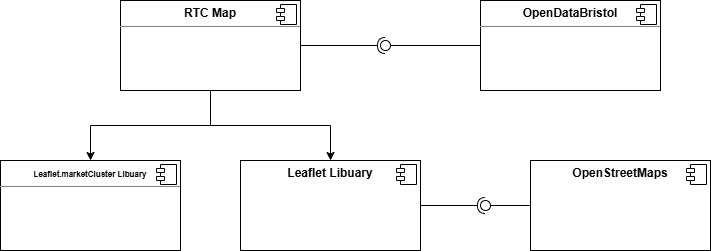
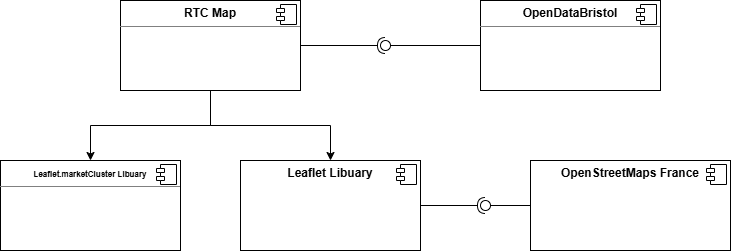
Updated implmentation to include introductions And updated OSM to be OSM fr

diff --git a/docs/implementation.md b/docs/implementation.md
@@ -121,16 +121,18 @@ Some keypoints are below
 TODO: provide a table listing the number of jslint warnings/reports for each module.
 
 ## Software Architecture
-
-TODO: Describe the major components of your architecture. Are any particular architectural styles being used?
+We are using the OpenDataBristol API to access the road traffic collision dataset.<br> 
+We are using leaflet for the map, with OSM France tiles. <br>
+For the markers we are using leaflet.cluster to cluster the markers together as there are over 4,000 pins in the dataset.<br>
+We are using event driven architecture where the page will remain static until the user makes a change. 
 
 ![](images/archetectureComponants.png)
 
 ## Bristol Open Data API
+We are using the Road Traffic Collision (RTC) dataset. <br>
+We are getting geoJSON so it includes lat and long to be used to set the markers on the map.
 
 ![](images/DrawioFiles/mapApiDiagram.drawio.png)
-
-TODO: Repeat as necessary
 
 # User guide
 
